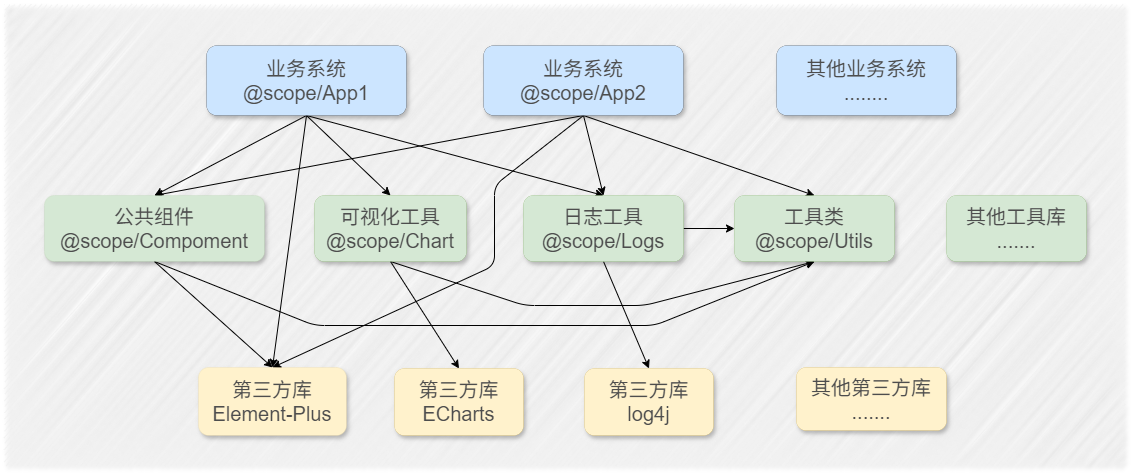
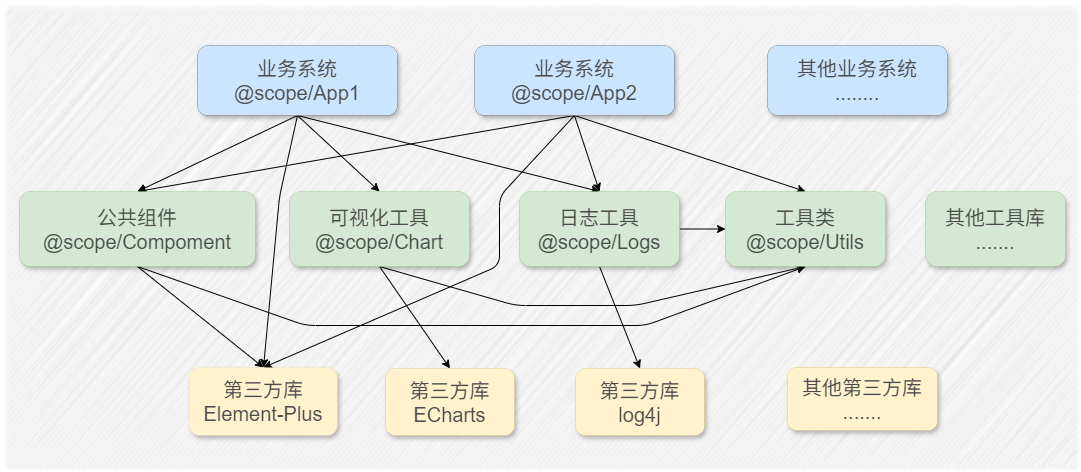
修改文件格式

diff --git a/docs/前端/传统架构向monorepo演进.md b/docs/前端/传统架构向monorepo演进.md
@@ -25,7 +25,7 @@ PolyRepo 的尽头是 MonoRepo。MonoRepo 的尽头是 HybridRepo（MonoRepo 核
 
 我们提取这些重复的代码或功能，将其发布成一个单独的 项目，通过 npm 包的方式引入到其他项目中，是一个非常好的选择。
 
-![1](./assert/2.svg)
+![1](./assert/2.png)
 
 如上图所示，在传统架构中，我们将项目分为以下几大部分：
 
